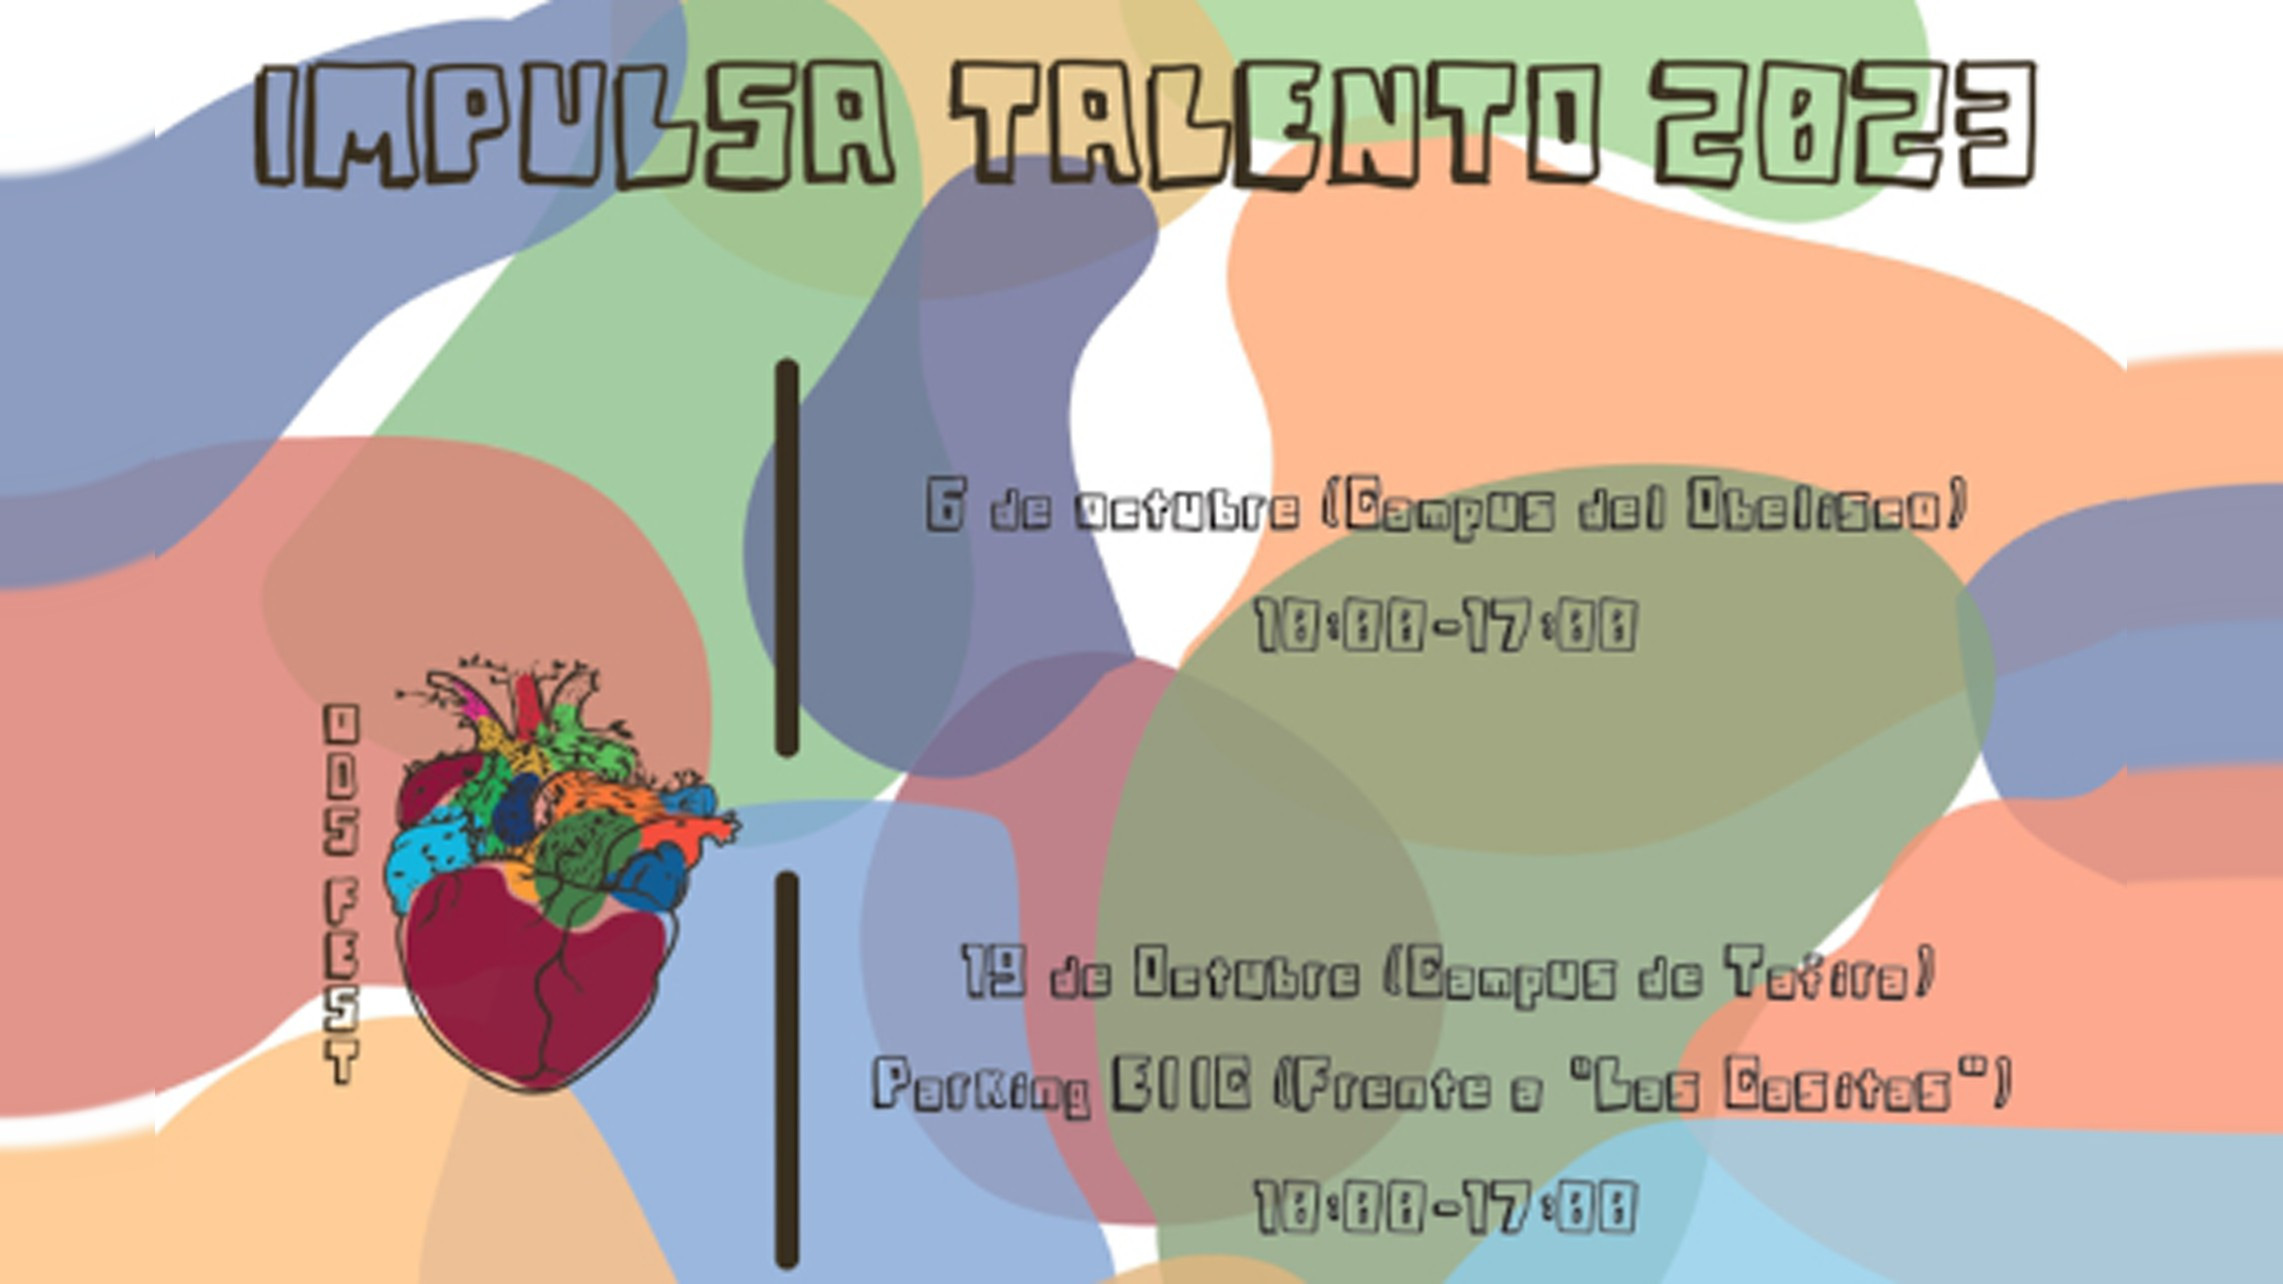
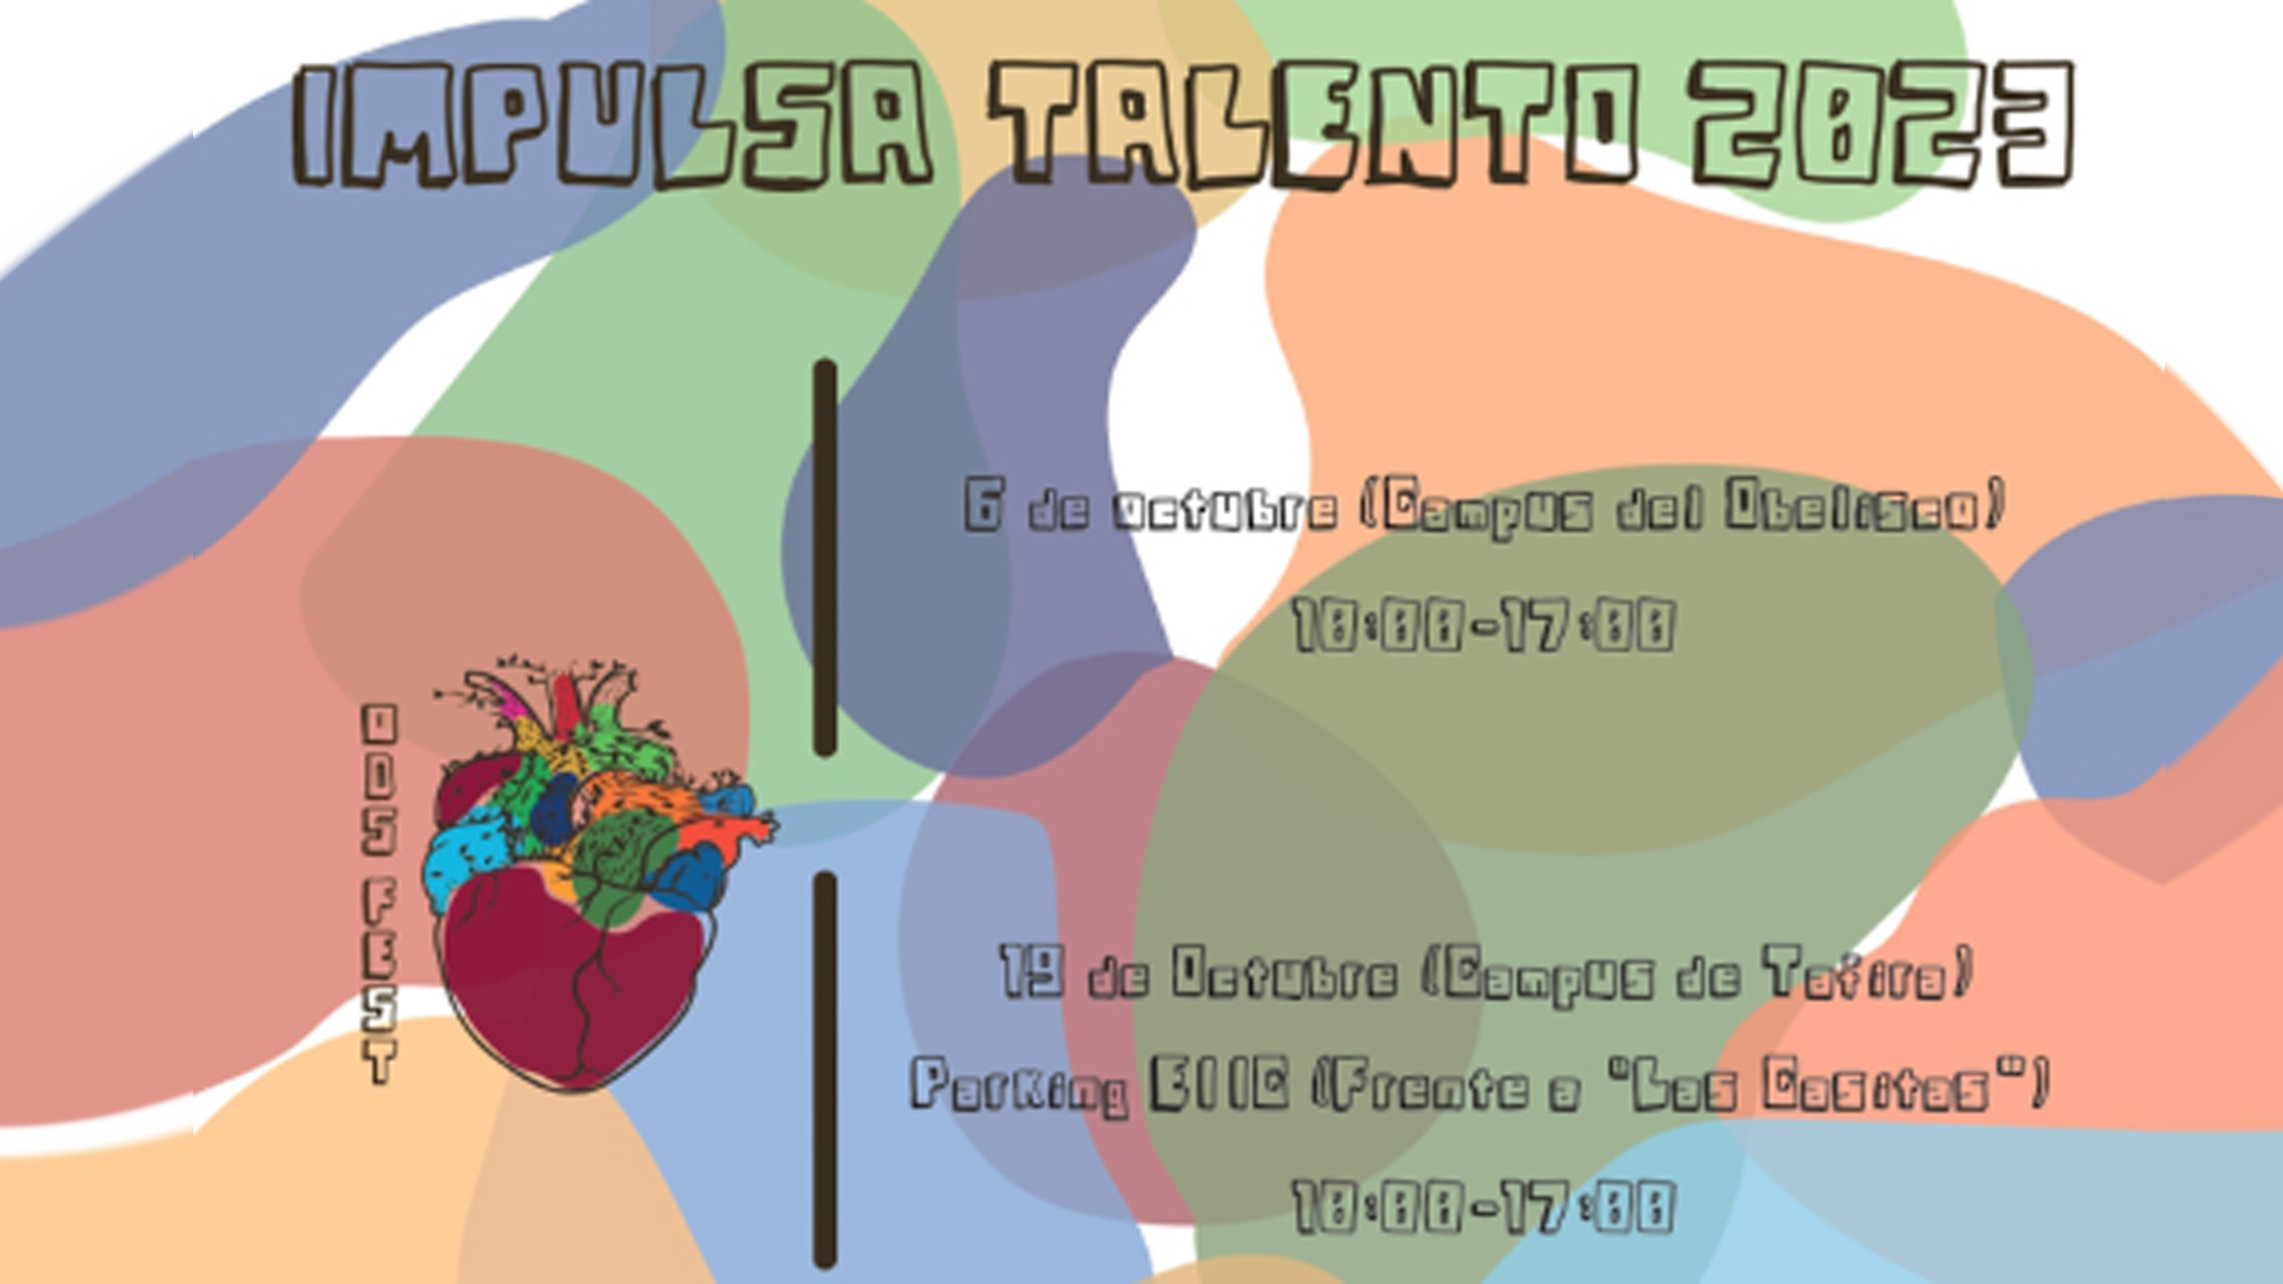
Smoother Impulsa poster extension: track each colour boundary and continue its curve
Claude-Session: https://claude.ai/code/session_01KqzTKoqq5ZeRsGnkyyB3gH

diff --git a/index.html b/index.html
@@ -8,8 +8,8 @@
   <link rel="preconnect" href="https://fonts.googleapis.com">
   <link rel="preconnect" href="https://fonts.gstatic.com" crossorigin>
   <link href="https://fonts.googleapis.com/css2?family=Fraunces:opsz,wght@9..144,300;9..144,500&family=Inter:wght@400;500;600&display=swap" rel="stylesheet">
-  <link rel="stylesheet" href="assets/style.css?v=202610151312">
-  <script src="config.js?v=202610151312"></script>
+  <link rel="stylesheet" href="assets/style.css?v=202610151314">
+  <script src="config.js?v=202610151314"></script>
 </head>
 <body>
   <nav class="nav" id="nav">
@@ -99,6 +99,6 @@
     <p>© <span id="year"></span> <span data-bind="name"></span></p>
   </footer>
 
-  <script src="assets/main.js?v=202610151312"></script>
+  <script src="assets/main.js?v=202610151314"></script>
 </body>
 </html>
